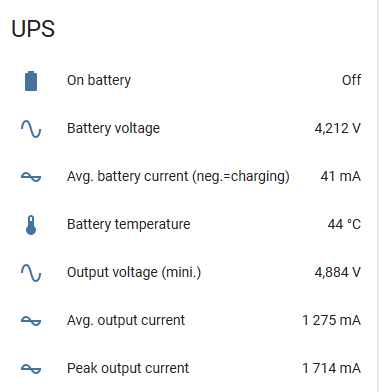
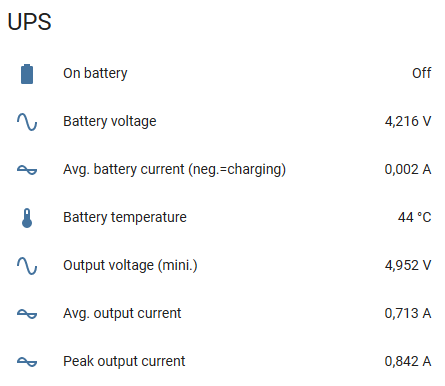
see CHANGELOG

diff --git a/fanShutDownUps.py b/fanShutDownUps.py
@@ -39,7 +39,7 @@ import smbus2
 from ina219 import INA219,DeviceRangeError
 import paho.mqtt.client as mqtt
 
-SCRIPT_VERSION = "20220110"
+SCRIPT_VERSION = "2023.02.10"
 
 CONFIG_FILE = "fanShutDownUps.ini"
 CONFIGSECTION_FAN = "fan"
@@ -72,11 +72,14 @@ def read_config():
     global FANSPEED_FILENAME
     global SEND_STATUS_TO_UPSPLUS_IOT_PLATFORM
     global UPSPLUS_IOT_PLATFORM_URL
+    global INA219SHUNT_OUT
+    global INA219SHUNT_BATT
     global BATT_LOOP_TIME
     global TIMER_BIAS_AT_STARTUP
     global SHUTDOWN_IMMEDIATELY_WHEN_ON_BATTERY # for testing shutdown only
     global SHUTDOWN_TIMEOUT
     global PROTECTION_VOLTAGE_MARGIN_mV
+    global HIGH_BATT_TEMP
     global MQTT_BROKER
     global MQTT_PORT
     global MQTT_USERNAME
@@ -90,6 +93,17 @@ def read_config():
         GPIO_FAN = int(confparser.get(CONFIGSECTION_FAN, "GPIO_FAN"))
         FAN_LOOP_TIME = int(confparser.get(CONFIGSECTION_FAN, "FAN_LOOP_TIME_s"))
         read_config_desired_cpu_temp()
+
+        try:
+            INA219SHUNT_OUT = float(confparser.get(CONFIGSECTION_UPS, "INA219_SHUNT_OUT_Ohm"))
+            print(f"INA219 shunt for output current: {INA219SHUNT_OUT}")
+        except Exception as exc:
+            INA219SHUNT_OUT = 0.00725 # value provided by Geekpi
+        try:
+            INA219SHUNT_BATT = float(confparser.get(CONFIGSECTION_UPS, "INA219_SHUNT_BATT_Ohm"))
+            print(f"INA219 shunt for battery current: {INA219SHUNT_BATT}")
+        except Exception as exc:
+            INA219SHUNT_BATT = 0.005 # value provided by Geekpi
 
         SEND_STATUS_TO_UPSPLUS_IOT_PLATFORM = 1 == int(confparser.get(CONFIGSECTION_UPS, "SEND_STATUS_TO_UPSPLUS_IOT_PLATFORM"))
         try:
@@ -128,6 +142,11 @@ def read_config():
         if PROTECTION_VOLTAGE_MARGIN_mV > protVmargin_maxi_mV:
             print("{} set to {:.0f} mV".format(parm, protVmargin_maxi_mV))
             PROTECTION_VOLTAGE_MARGIN_mV = protVmargin_maxi_mV
+
+        try:
+            HIGH_BATT_TEMP = int(confparser.get(CONFIGSECTION_UPS, "HIGH_BATT_TEMP"))
+        except:
+            HIGH_BATT_TEMP = 99 #disables warning about high battery temperature
 
         MQTT_BROKER = confparser.get(CONFIGSECTION_MQTT, "BROKER")
         MQTT_PORT = int(confparser.get(CONFIGSECTION_MQTT, "TCP_PORT"))
@@ -178,17 +197,14 @@ def MQTT_connect(client):
         client.connect(MQTT_BROKER, MQTT_PORT) #connect to broker
         client.loop_start()
     except Exception as e:
-#        print("connection failed: " + str(e))
+        print(f"MQTT connection failed: {e}")
         return False
     timeout = time.time() + 5
     while client.connection_rc == -1: #wait in loop
         if time.time() > timeout:
             break
         time.sleep(1)
-    if client.connected_flag:
-        return True
-    else:
-        return False
+    return client.connected_flag
 
 def MQTT_terminate(client):
     try:
@@ -208,7 +224,7 @@ def i2c_bus_read_byte_wait(devaddr, reg, delay_s):
     return i2c_bus.read_byte_data(devaddr, reg)
 
 class UPSPlus:
-    def __init__(self, upsCurrent):
+    def __init__(self, upsCurrent, upsHealthCheck):
         self._send_status_data_reply = ""
         # get battery status
         try:
@@ -254,10 +270,12 @@ class UPSPlus:
 #       we very rarely get 0xFF at reg_buff[0x0C]. this value should be 0 anyway for realistic temperatures
         BATT_TEMP_CEILING = 70 # sometimes unrealistic values spoil my graphs
         self._battery_temperature_degC = min(self._reg_buff[0x0B], BATT_TEMP_CEILING)
+        upsHealthCheck.check_batt_temperature(self._battery_temperature_degC)
 #        self._battery_remaining_capacity_percent = self._reg_buff[0x14] << 8 | self._reg_buff[0x13]
 #       remaining capacity always <= 100%
         BATT_CAPACITY_CEILING = 101
         self._battery_remaining_capacity_percent = min(self._reg_buff[0x13], BATT_CAPACITY_CEILING)
+        self._healthy = upsHealthCheck.is_healthy
 
     @property
     def protection_voltage_mV(self):
@@ -303,18 +321,19 @@ class UPSPlus:
                 'UsbMicro_V': self._USB_micro_mV / 1000,
                 'OnBattery': self.on_battery,
                 'BatteryVoltage_V': self._battery_voltage_V,
-                'BatteryCurrent_mA': int(self._battery_current_mA),
-                'BatteryCurrent_avg_mA': int(self._battery_current_avg_mA),
-                'BatteryPower_avg_mW': int(self._battery_power_avg_mW),
+                'BatteryCurrent_A': int(self._battery_current_mA) / 1000.,
+                'BatteryCurrent_avg_A': int(self._battery_current_avg_mA) / 1000.,
+                'BatteryPower_avg_W': int(self._battery_power_avg_mW)/1000.,
                 'BatteryCharging': self.battery_is_charging,
                 'BatteryRemainingCapacity_percent': self._battery_remaining_capacity_percent,
                 'BatteryTemperature_degC': self._battery_temperature_degC,
                 'OutputVoltage_V': self._RPi_voltage_V,
                 'OutputVoltage_mini_V': self._RPi_voltage_mini_V,
-                'OutputCurrent_mA': int(self._RPi_current_mA),
-                'OutputCurrent_avg_mA': int(self._RPi_current_avg_mA),
-                'OutputPower_avg_mW': int(self._RPi_power_avg_mW),
-                'OutputCurrent_peak_mA': int(self._RPi_current_peak_mA),
+                'OutputCurrent_A': int(self._RPi_current_mA) / 1000.,
+                'OutputCurrent_avg_A': int(self._RPi_current_avg_mA) / 1000.,
+                'OutputPower_avg_W': int(self._RPi_power_avg_mW) / 1000.,
+                'OutputCurrent_peak_A': int(self._RPi_current_peak_mA) / 1000.,
+                'IsHealthy': self._healthy,
             }
             if SEND_STATUS_TO_UPSPLUS_IOT_PLATFORM:
                 dictPayload['UPSPlus_IOT_Platform_Reply'] = self._send_status_data_reply
@@ -360,7 +379,7 @@ class UPSPlus:
             'UID2': "%08X" % (self._reg_buff[251] << 24 | self._reg_buff[250] << 16
                                         | self._reg_buff[249] << 8 | self._reg_buff[248]),
         }
-#        print(DATA)
+#        print(tel_data)
         try:
             r = requests.post(UPSPLUS_IOT_PLATFORM_URL, data=tel_data)
             # print(r.text)
@@ -480,6 +499,39 @@ class UPSVoltageCurrent:
         return tmpMin
 
 
+class UPSHealth:
+# the UPS is considered unhealthy if...
+# - at least 10 consecutive battery temperature readings are equal.
+#   this occurred frequently with firmware versions <= 9) but has not been observed so far for v.10.
+#   when this occurred, the UPS would not perform the shutdown procedure at the end of battery life, and would not switch off power to the RPi.
+# - at least 3 consecutive battery temperature readings are over threshold
+    def __init__(self, high_batt_temp):
+        self._lastTemp = -1
+        self._UNHEALTHY_EQUAL_BATT_TEMP_VALUES_COUNT = 10
+        self._equalValuesFound = 0
+        self._HIGH_BATT_TEMP = high_batt_temp
+        self._highBattTempValuesFound = 0
+        self._HIGH_BATT_TEMP_MAXCOUNT = 3
+
+    def check_batt_temperature(self, batt_temp):
+        if batt_temp == self._lastTemp:
+            if self._equalValuesFound <= self._UNHEALTHY_EQUAL_BATT_TEMP_VALUES_COUNT:
+                self._equalValuesFound += 1
+        else:
+            self._lastTemp = batt_temp
+            self._equalValuesFound = 0
+        if batt_temp > self._HIGH_BATT_TEMP:
+            if self._highBattTempValuesFound <= self._HIGH_BATT_TEMP_MAXCOUNT:
+                self._highBattTempValuesFound += 1
+        else:
+            self._highBattTempValuesFound = 0
+
+    @property
+    def is_healthy(self):
+        return (self._equalValuesFound < self._UNHEALTHY_EQUAL_BATT_TEMP_VALUES_COUNT) \
+            and (self._highBattTempValuesFound < self._HIGH_BATT_TEMP_MAXCOUNT)
+
+
 class Fan:
     def __init__(self, mqttclient):
         self._currentfanspeed = 999
@@ -546,7 +598,7 @@ class Fan:
 def get_UPS_status_and_check_battery_voltage(mqttclient):
     global UPS_was_on_battery
     try:
-        upsplus = UPSPlus(UPS_voltage_current)
+        upsplus = UPSPlus(UPS_voltage_current, UPS_health_check)
     except Exception as exc:
         errMsg = "[get_UPS_status_and_check_battery_voltage] Error getting data from UPS: " + str(exc)
         print(errMsg)
@@ -631,8 +683,8 @@ def UPS_is_present():
         return False
     # Raspberry Pi output current and voltage
     try:
-        inaRPi = INA219(0.00725, busnum=DEVICE_BUS, address=0x40)
-        inaRPi.configure()
+        inaRPi = INA219(INA219SHUNT_OUT, busnum=DEVICE_BUS, address=0x40)
+        inaRPi.configure(inaRPi.RANGE_32V, inaRPi.GAIN_AUTO, inaRPi.ADC_12BIT, inaRPi.ADC_12BIT)
     except Exception as exc:
         errMsg = 'Cannot initialize communication with INA219 (output). Error message: ' + str(exc)
         syslog.syslog(syslog.LOG_WARNING, errMsg)
@@ -640,8 +692,8 @@ def UPS_is_present():
         return False
     # Battery current and voltage
     try:
-        inaBattery = INA219(0.005, busnum=DEVICE_BUS, address=0x45)
-        inaBattery.configure()
+        inaBattery = INA219(INA219SHUNT_BATT, busnum=DEVICE_BUS, address=0x45)
+        inaBattery.configure(inaBattery.RANGE_32V, inaBattery.GAIN_AUTO, inaBattery.ADC_12BIT, inaBattery.ADC_12BIT)
     except Exception as exc:
         errMsg = 'Cannot initialize communication with INA219 (battery). Error message: ' + str(exc)
         syslog.syslog(syslog.LOG_WARNING, errMsg)
@@ -672,7 +724,6 @@ try:
     mqtt.Client.connected_flag = False # create flags in class
     mqtt.Client.connection_rc = -1
     MQTT_client = mqtt.Client("fanShutDownUps")
-    MQTT_connected = False
 
     control_fan = (GPIO_FAN >= 0)
     if control_fan:
@@ -687,6 +738,7 @@ try:
     UPS_present = UPS_is_present()
     if UPS_present:
         UPS_voltage_current = UPSVoltageCurrent()
+        UPS_health_check = UPSHealth(HIGH_BATT_TEMP)
 
     UPS_was_on_battery = False
 
@@ -697,6 +749,8 @@ try:
     batterycheck_timer = TIMER_BIAS_AT_STARTUP
     
     fan_timer = 0
+    if connect_to_MQTT:
+      MQTT_connect(MQTT_client)
     while True:
         if UPS_present:
             UPS_voltage_current.add_value()
@@ -710,8 +764,6 @@ try:
             batterycheck_timer = 0
             if control_fan:
                 read_config_desired_cpu_temp()
-            if not MQTT_connected and connect_to_MQTT:
-                MQTT_connected = MQTT_connect(MQTT_client)
             if UPS_present:
                 get_UPS_status_and_check_battery_voltage(MQTT_client)
         else:

diff --git a/README.md b/README.md
@@ -74,6 +74,8 @@ At startup, the script will check if it can detect the UPS at the expected addre
 
 **PROTECTION_VOLTAGE_MARGIN_mV**: recommended value: 200. Shutdown will be triggered when the battery voltage is lower than the sum of the UPS-Plus protection voltage and this value.
 
+Later you may want to adjust the INA_219_SHUNT... parameters to calibrate the current readings. I did this by measuring the USB charger current while the batteries are fully charged, and assuming some reasonable efficiency factor for the UPS circuits.
+
 #### MQTT broker
 
 Configuration parameters for the MQTT broker should be self-explaining. If you do not want to use this feature, set BROKER to an empty value.
@@ -108,13 +110,13 @@ UPS data is published to the broker with the topic `home/rpi/ups`. It is sent as
 
 - BatteryVoltage_V (as measured by the INA219 sensor at i2c address 0x45),
 
-- BatteryCurrent_mA (positive value: discharging, negative value: charging)
+- BatteryCurrent_A (positive value: discharging, negative value: charging)
 
-- BatteryCurrent_avg_mA,
+- BatteryCurrent_avg_A,
 
-- BatteryPower_avg_mW,
+- BatteryPower_avg_W,
 
-- BatteryCharging (boolean, `true` if BatteryCurrent_avg_mA is negative)
+- BatteryCharging (boolean, `true` if BatteryCurrent_avg_A is negative)
 
 - BatteryRemainingCapacity_percent,
 
@@ -124,11 +126,11 @@ UPS data is published to the broker with the topic `home/rpi/ups`. It is sent as
 
 - OutputVoltage_mini_V (minimum value during the preceding time interval of BATTERY_CHECK_LOOP_TIME_s)
 
-- OutputCurrent_mA,
+- OutputCurrent_A,
 
-- OutputCurrent_avg_mA,
+- OutputCurrent_avg_A,
 
-- OutputPower_avg_mW,
+- OutputPower_avg_W,
 
 - OutputCurrent_peak_mA (peak value during the preceding time interval of BATTERY_CHECK_LOOP_TIME_s)
 
@@ -144,8 +146,8 @@ sensor:
     name: "UPS average battery current"
     device_class: current
     state_topic: "home/rpi/ups"
-    value_template: '{{ value_json["BatteryCurrent_avg_mA"] }}'
-    unit_of_measurement: "mA"
+    value_template: '{{ value_json["BatteryCurrent_avg_A"] }}'
+    unit_of_measurement: "A"
     availability:
       - topic:  "home/rpi/LWT"
         payload_available: "online"
